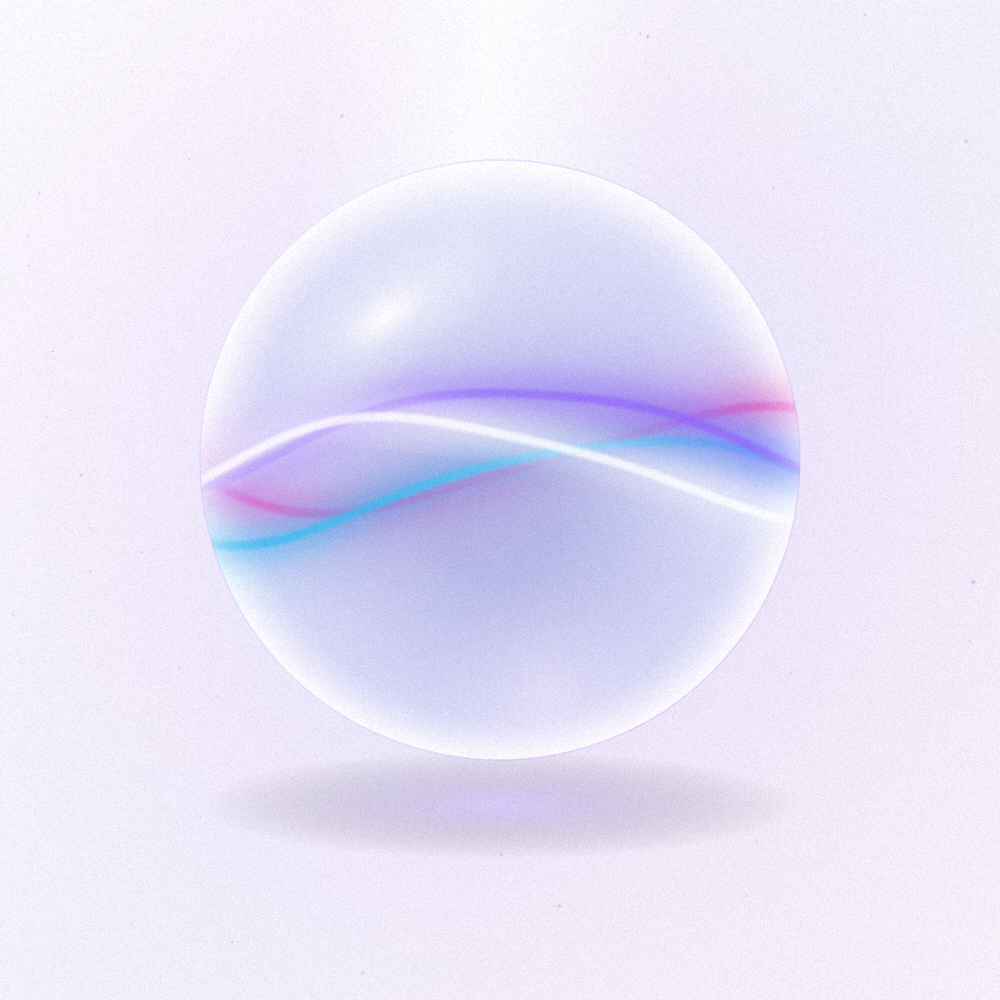
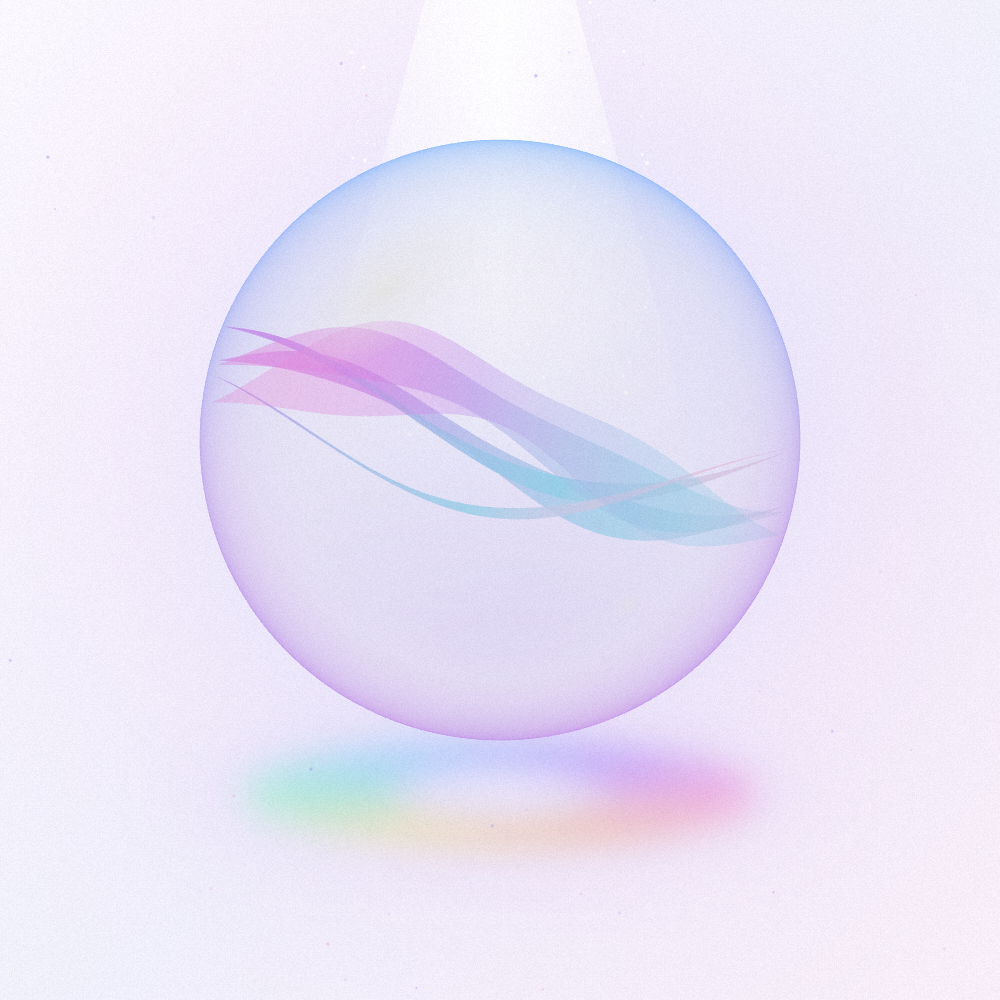
3D glass orb with silk ribbon and rainbow caustic; new tagline
Claude-Session: https://claude.ai/code/session_01NNfMayHtDVknSJbkkHba8P

Changed region(s): [[0.186, 0.124, 0.806, 0.837]]

diff --git a/rebrand/orb3d.html b/rebrand/orb3d.html
@@ -1,0 +1,78 @@
+<!doctype html><html><head><meta charset="utf-8">
+<link href="https://fonts.googleapis.com/css2?family=Cormorant+Garamond:ital,wght@0,300;1,300&family=Inter:wght@300&display=swap" rel="stylesheet">
+<style>body{margin:0;background:#fff}.c{position:relative;overflow:hidden;color:#1d2147;font-family:Inter,sans-serif}
+canvas{position:absolute;inset:0;width:100%;height:100%}.t{position:absolute;z-index:2}
+.n{font-family:'Cormorant Garamond',serif;font-weight:300;letter-spacing:.05em;line-height:1}
+.cap{letter-spacing:.45em;text-transform:uppercase;font-weight:300;color:#5d6398}
+.rule{height:1px;background:linear-gradient(90deg,rgba(93,99,152,.5),transparent)}</style>
+<script type="importmap">{"imports":{"three":"https://unpkg.com/three@0.160.0/build/three.module.js","three/addons/":"https://unpkg.com/three@0.160.0/examples/jsm/"}}</script>
+</head><body>
+<script type="module">
+import * as THREE from 'three';
+import {RoomEnvironment} from 'three/addons/environments/RoomEnvironment.js';
+const R=(a,b)=>a+Math.random()*(b-a);
+function bg(w,h,X,Y,r){const c=document.createElement('canvas');c.width=w;c.height=h;const x=c.getContext('2d');
+ let g=x.createLinearGradient(0,0,w,h);g.addColorStop(0,'#fbfaff');g.addColorStop(.55,'#eef0fb');g.addColorStop(1,'#f7eef8');x.fillStyle=g;x.fillRect(0,0,w,h);
+ g=x.createRadialGradient(X,Y,0,X,Y,r*3);g.addColorStop(0,'rgba(190,195,255,.5)');g.addColorStop(.45,'rgba(240,210,245,.25)');g.addColorStop(1,'rgba(255,255,255,0)');x.fillStyle=g;x.fillRect(0,0,w,h);
+ // beam
+ {const b=document.createElement('canvas');b.width=w;b.height=h;const bx=b.getContext('2d');bx.translate(X,0);let bg2=bx.createLinearGradient(-r*.7,0,r*.7,0);bg2.addColorStop(0,'rgba(255,255,255,0)');bg2.addColorStop(.5,'rgba(255,255,255,.9)');bg2.addColorStop(1,'rgba(255,255,255,0)');bx.fillStyle=bg2;bx.beginPath();bx.moveTo(-r*.25,0);bx.lineTo(r*.25,0);bx.lineTo(r*.8,Y+r*.6);bx.lineTo(-r*.8,Y+r*.6);bx.fill();
+ bx.setTransform(1,0,0,1,0,0);bx.globalCompositeOperation='destination-in';const vg=bx.createLinearGradient(0,0,0,Y+r*.6);vg.addColorStop(0,'#000');vg.addColorStop(.5,'rgba(0,0,0,.8)');vg.addColorStop(1,'rgba(0,0,0,0)');bx.fillStyle=vg;bx.fillRect(0,0,w,h);x.drawImage(b,0,0)}
+ // rainbow caustic pool under orb (light through glass)
+ const py=Y+r*1.18;x.save();x.translate(X,py);x.scale(1,.2);x.filter=`blur(${r*.06}px)`;
+ const cg=x.createConicGradient(0,0,0);['#ff7ac8','#ffb36b','#fff07a','#7affc1','#6fd3ff','#9b7bff','#ff7ac8'].forEach((c,i,a)=>cg.addColorStop(i/(a.length-1),c));
+ x.globalAlpha=.55;x.fillStyle=cg;x.beginPath();x.arc(0,0,r*.85,0,7);x.arc(0,0,r*.35,0,7,true);x.fill();
+ x.globalAlpha=1;g=x.createRadialGradient(0,0,0,0,0,r*.45);g.addColorStop(0,'rgba(255,255,255,1)');g.addColorStop(1,'rgba(255,255,255,0)');x.fillStyle=g;x.beginPath();x.arc(0,0,r*.5,0,7);x.fill();
+ x.filter=`blur(${r*.12}px)`;g=x.createRadialGradient(0,0,r*.6,0,0,r*1.2);g.addColorStop(0,'rgba(160,140,240,.18)');g.addColorStop(1,'rgba(160,140,240,0)');x.fillStyle=g;x.beginPath();x.arc(0,0,r*1.2,0,7);x.fill();x.restore();
+ for(let i=0;i<160;i++){const a=R(0,6.28),d=r*R(1.2,3.5);x.fillStyle=`rgba(${Math.random()<.5?'150,140,230':'230,160,220'},${R(.15,.5)})`;x.beginPath();x.arc(X+Math.cos(a)*d,Y+Math.sin(a)*d,R(.5,1.8),0,7);x.fill()}
+ // dust in beam
+ for(let i=0;i<90;i++){x.fillStyle=`rgba(255,255,255,${R(.4,1)})`;x.beginPath();x.arc(X+R(-r*.5,r*.5),R(0,Y),R(.6,2),0,7);x.fill()}
+ return c}
+function ribbonGeo(r,phase,tilt,width){const N=240,pos=[],col=[],idx=[];const cols=[new THREE.Color('#ff4fb4'),new THREE.Color('#8f5cff'),new THREE.Color('#2fbfff'),new THREE.Color('#ff9ad8')];
+ for(let i=0;i<=N;i++){const t=i/N,xx=-.97+t*1.94;const lim=Math.sqrt(Math.max(0,1-xx*xx))*.92;
+  const cy=Math.sin(t*5+phase)*.2+tilt,cz=Math.cos(t*4+phase)*.25*lim;const wd=width*Math.sin(t*Math.PI)*(1+.5*Math.sin(t*9+phase));
+  for(const sd of[-1,1]){let y=cy+wd*sd*.5;y=Math.max(-lim,Math.min(lim,y));pos.push(xx,y,cz+sd*wd*.3);const k=(t*2.2+phase*.4)%4,i0=Math.floor(k),f=k-i0;const c=cols[i0%4].clone().lerp(cols[(i0+1)%4],f);col.push(c.r,c.g,c.b)}
+  if(i<N){const b=i*2;idx.push(b,b+1,b+2,b+1,b+3,b+2)}}
+ const g=new THREE.BufferGeometry();g.setAttribute('position',new THREE.Float32BufferAttribute(pos,3));g.setAttribute('color',new THREE.Float32BufferAttribute(col,3));g.setIndex(idx);return g}
+const renderer=new THREE.WebGLRenderer({antialias:true,alpha:false,preserveDrawingBuffer:true});renderer.toneMapping=THREE.ACESFilmicToneMapping;renderer.toneMappingExposure=1.05;renderer.outputColorSpace=THREE.SRGBColorSpace;
+const pmrem=new THREE.PMREMGenerator(renderer);
+function envTex(){const c=document.createElement('canvas');c.width=1024;c.height=512;const x=c.getContext('2d');let g=x.createLinearGradient(0,0,0,512);g.addColorStop(0,'#ffffff');g.addColorStop(.45,'#f1eeff');g.addColorStop(.6,'#e6dcfb');g.addColorStop(1,'#f8eaf4');x.fillStyle=g;x.fillRect(0,0,1024,512);
+ // softbox windows
+ x.fillStyle='#ffffff';[[150,90,180,120],[620,70,260,90],[820,260,120,160]].forEach(([a,b,c2,d])=>{x.filter='blur(6px)';x.fillRect(a,b,c2,d)});
+ x.filter='blur(30px)';[['#ffb6e6',300,300],['#a6e6ff',520,320],['#c4b0ff',760,330]].forEach(([c2,a,b])=>{x.fillStyle=c2;x.beginPath();x.arc(a,b,80,0,7);x.fill()});
+ const t=new THREE.CanvasTexture(c);t.mapping=THREE.EquirectangularReflectionMapping;t.colorSpace=THREE.SRGBColorSpace;return pmrem.fromEquirectangular(t).texture}
+const env=envTex();
+function mk(id,W,H,ox,oy,or,html){const el=document.createElement('div');el.className='c';el.id=id;el.style.cssText=`width:${W}px;height:${H}px`;const out=document.createElement('canvas');el.appendChild(out);document.body.appendChild(el);
+ const s=2,w=W*s,h=H*s,X=w*ox,Y=h*oy,r=h*or;out.width=w;out.height=h;
+ const bgc=bg(w,h,X,Y,r);const tex=new THREE.CanvasTexture(bgc);tex.colorSpace=THREE.SRGBColorSpace;
+ renderer.setPixelRatio(1);renderer.setSize(w,h,false);
+ const scene=new THREE.Scene();scene.background=tex;scene.environment=env;
+ const cam=new THREE.OrthographicCamera(0,w,0,-h,-5000,5000);cam.position.z=2000;
+ const grp=new THREE.Group();grp.position.set(X,-Y,0);grp.scale.setScalar(r);scene.add(grp);
+ const glass=new THREE.MeshPhysicalMaterial({color:0xf4f2ff,metalness:0,roughness:0,transparent:true,opacity:.28,iridescence:1,iridescenceIOR:1.4,iridescenceThicknessRange:[250,650],clearcoat:1,clearcoatRoughness:0,envMapIntensity:1.6,depthWrite:false,side:THREE.FrontSide});
+ const back=new THREE.MeshPhysicalMaterial({color:0xe9e4ff,roughness:0,transparent:true,opacity:.22,iridescence:1,iridescenceThicknessRange:[300,700],side:THREE.BackSide,depthWrite:false,envMapIntensity:1.4});
+ const bm=new THREE.Mesh(new THREE.SphereGeometry(1,128,96),back);bm.renderOrder=1;grp.add(bm);
+ const fm=new THREE.Mesh(new THREE.SphereGeometry(1,128,96),glass);fm.renderOrder=20;grp.add(fm);
+ const rim=new THREE.ShaderMaterial({transparent:true,depthWrite:false,blending:THREE.NormalBlending,uniforms:{},vertexShader:'varying vec3 n;varying vec3 v;void main(){n=normalize(normalMatrix*normal);vec4 p=modelViewMatrix*vec4(position,1.);v=normalize(-p.xyz);gl_Position=projectionMatrix*p;}',
+  fragmentShader:'varying vec3 n;varying vec3 v;void main(){float e=1.-abs(n.z);float f=pow(e,2.2)*.75+smoothstep(.9,1.,e)*.3;vec3 c=mix(vec3(.95,.55,.85),vec3(.45,.7,1.),n.y*.5+.5);c=mix(c,vec3(.55,.5,.95),smoothstep(.2,-.8,n.y)*.5);float sh=smoothstep(.3,-1.,n.y)*.18*(1.-e);gl_FragColor=vec4(mix(c,vec3(.6,.55,.9),sh),max(f,sh));}'});
+ const rmM=new THREE.Mesh(new THREE.SphereGeometry(1.001,128,96),rim);rmM.renderOrder=21;grp.add(rmM);
+ const rm=new THREE.MeshBasicMaterial({vertexColors:true,transparent:true,opacity:.5,side:THREE.DoubleSide,depthWrite:false,depthTest:false});
+ [[0,.0,.36,.35],[.5,.03,.22,.5],[1.0,-.03,.13,.7],[1.6,.05,.06,.9],[2.4,-.06,.03,.8]].forEach(([p,t,wd,op])=>{const mm=rm.clone();mm.opacity=op;const m=new THREE.Mesh(ribbonGeo(1,p,t,wd),mm);m.renderOrder=10;m.rotation.set(.15,0,-.14);grp.add(m)});
+ // soft specular highlight
+ const hc=document.createElement('canvas');hc.width=hc.height=256;const hx=hc.getContext('2d');const hg=hx.createRadialGradient(128,128,0,128,128,128);hg.addColorStop(0,'rgba(255,255,255,1)');hg.addColorStop(.35,'rgba(255,255,255,.45)');hg.addColorStop(1,'rgba(255,255,255,0)');hx.fillStyle=hg;hx.fillRect(0,0,256,256);
+ const hs=new THREE.Mesh(new THREE.PlaneGeometry(.75,.36),new THREE.MeshBasicMaterial({map:new THREE.CanvasTexture(hc),transparent:true,depthTest:false,depthWrite:false}));hs.position.set(-.38,.5,1.1);hs.rotation.z=.6;hs.renderOrder=30;grp.add(hs);
+ const hs2=hs.clone();hs2.scale.set(.25,.25,1);hs2.position.set(.42,-.55,1.1);hs2.material=hs.material.clone();hs2.material.opacity=.5;grp.add(hs2);
+ const soft=new THREE.MeshBasicMaterial({vertexColors:true,transparent:true,opacity:.7,side:THREE.DoubleSide,depthWrite:false,depthTest:false});
+ 
+ renderer.render(scene,cam);
+ const x=out.getContext('2d');x.drawImage(renderer.domElement,0,0);
+ const d=x.getImageData(0,0,w,h);for(let i=0;i<d.data.length;i+=4){const n=(Math.random()-.5)*10;d.data[i]+=n;d.data[i+1]+=n;d.data[i+2]+=n}x.putImageData(d,0,0);
+ if(html)el.insertAdjacentHTML('beforeend',html);tex.dispose()}
+const L=s=>`<div class="n" style="font-size:${s}px">Lucian <i>Vox</i></div>`;
+const TAG='Lighting your digital pathway';
+mk('banner_large',1680,420,.74,.44,.31,`<div class="t" style="left:120px;top:140px">${L(82)}<div class="rule" style="width:300px;margin:22px 0 18px"></div><div class="cap" style="font-size:13px">${TAG}</div></div>`);
+mk('banner_mini',600,150,.8,.44,.3,`<div class="t" style="left:46px;top:46px">${L(36)}<div class="cap" style="font-size:7px;margin-top:12px">${TAG}</div></div>`);
+mk('icon',500,500,.5,.44,.3,'');
+mk('icon_mono',500,500,.5,.46,.32,`<div class="t n" style="left:0;right:0;top:${500*.46-64}px;text-align:center;font-size:128px;color:#fff;text-shadow:0 0 10px rgba(90,70,200,.9),0 0 30px rgba(120,90,230,.7)"><i>V</i></div>`);
+mk('social_header',750,250,.5,.38,.24,`<div class="t" style="width:100%;bottom:20px;text-align:center"><div class="n" style="font-size:30px">Lucian <i>Vox</i></div><div class="cap" style="font-size:8px;margin-top:8px">${TAG}</div></div>`);
+window.DONE=1;
+</script></body></html>

diff --git a/rebrand/shot3.js b/rebrand/shot3.js
@@ -1,0 +1,4 @@
+const {chromium}=require('playwright');(async()=>{const b=await chromium.launch({args:['--use-gl=angle','--use-angle=swiftshader','--enable-unsafe-swiftshader']});const p=await b.newPage({deviceScaleFactor:2,viewport:{width:1800,height:1000}});
+p.on('console',m=>console.log(m.text()));p.on('pageerror',e=>console.log('ERR',e.message));
+await p.goto('file://'+process.cwd()+'/orb3d.html');await p.waitForFunction('window.DONE',null,{timeout:120000});await p.waitForTimeout(1500);
+for(const id of ['banner_large','banner_mini','icon','icon_mono','social_header'])await p.locator('#'+id).screenshot({path:`orb_${id}.png`});await b.close()})();
